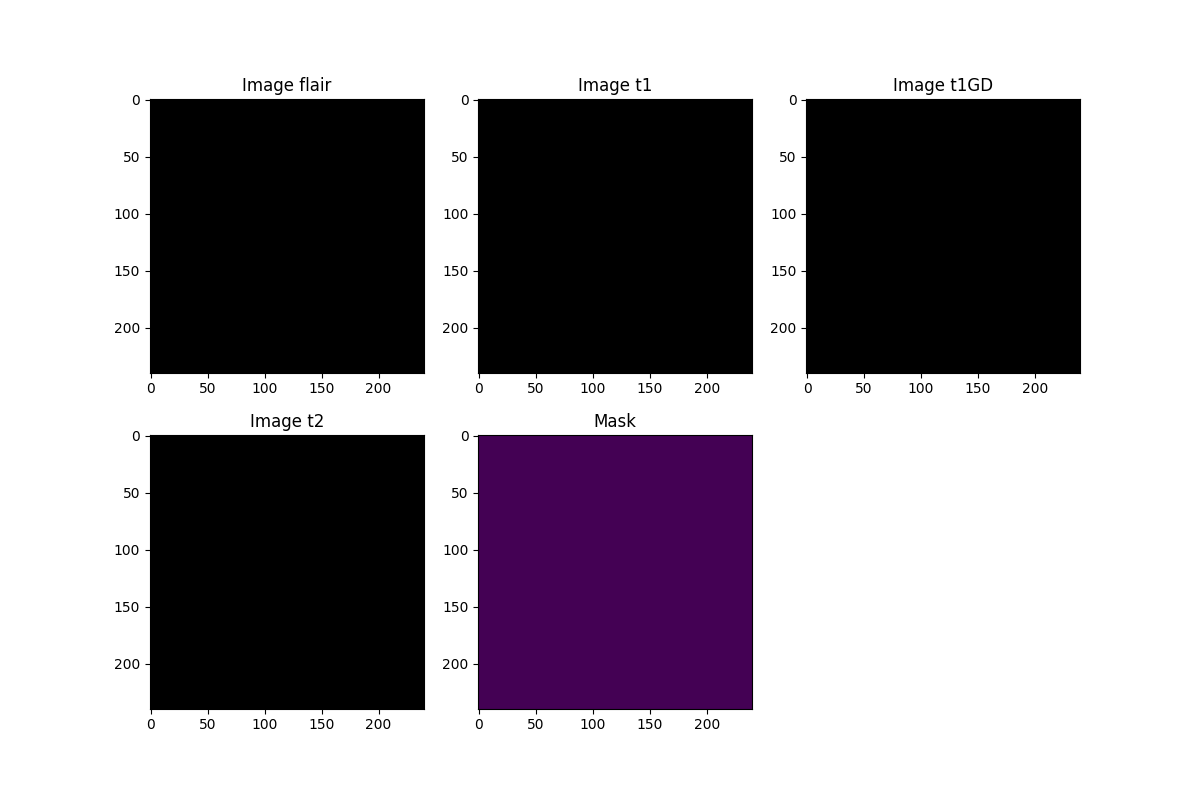
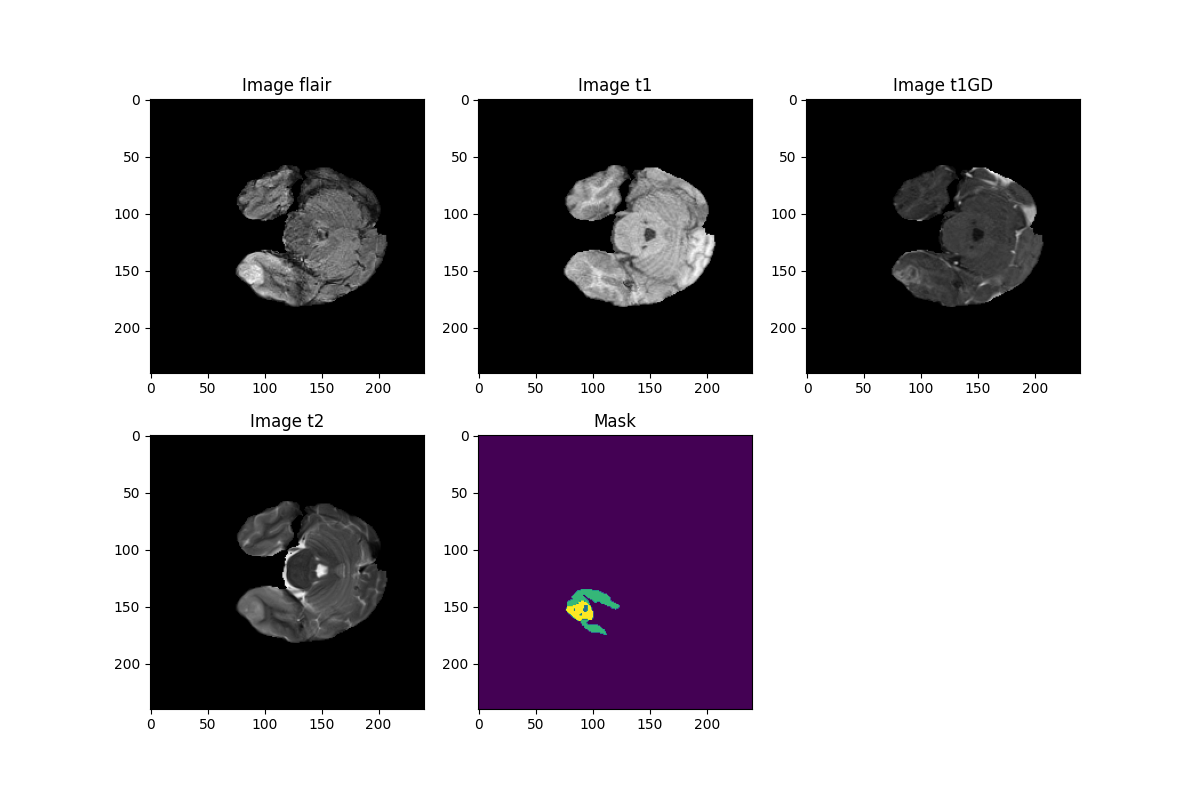
test mask is now categorical

diff --git a/code/2U_getting_data.py b/code/2U_getting_data.py
@@ -37,9 +37,11 @@ base_path = Path(__file__).resolve().parent.parent / "data"
 import numpy as np
 import nibabel as nib
 import glob
-from tensorflow.keras.utils import to_categorical
+#from tensorflow.keras.utils import to_categorical
 import matplotlib.pyplot as plt
 #from tifffile import imsave
+from sklearn.preprocessing import OneHotEncoder
+
 
 from sklearn.preprocessing import MinMaxScaler
 scaler = MinMaxScaler()
@@ -150,8 +152,24 @@ my_img = np.load(TRAIN_DATASET_PATH + 'UNET_Train_PATH/combined00024.npy')
 print(f"✅ Loaded shape: {my_img.shape}")
 print(f"📏 Size in MB: {my_img.nbytes / (1024 ** 2):.2f} MB")
 
-# One-hot encode the mask make sure the mask is 3d 
-test_mask = to_categorical(test_mask, num_classes=4)
+# One-hot encode the mask make sure the mask is 3d  
+print(test_mask.shape) #(128, 128, 128) needs to be (128, 128, 128,4)
+
+num_classes = 4
+test_mask = np.eye(num_classes)[test_mask]
+print(test_mask.shape)
+
+'''
+# Initialize OneHotEncoder with categories=[0,1,2,3] explicitly or let it infer
+encoder = OneHotEncoder(categories=[np.arange(4)], sparse=False)
+
+# Fit and transform
+test_mask_encoded = encoder.fit_transform(test_mask)
+
+print(test_mask_encoded)
+
+#test_mask = to_categorical(test_mask, num_classes=4)
+'''
 print("ALLDONE")
 exit()
 ####################################################################
